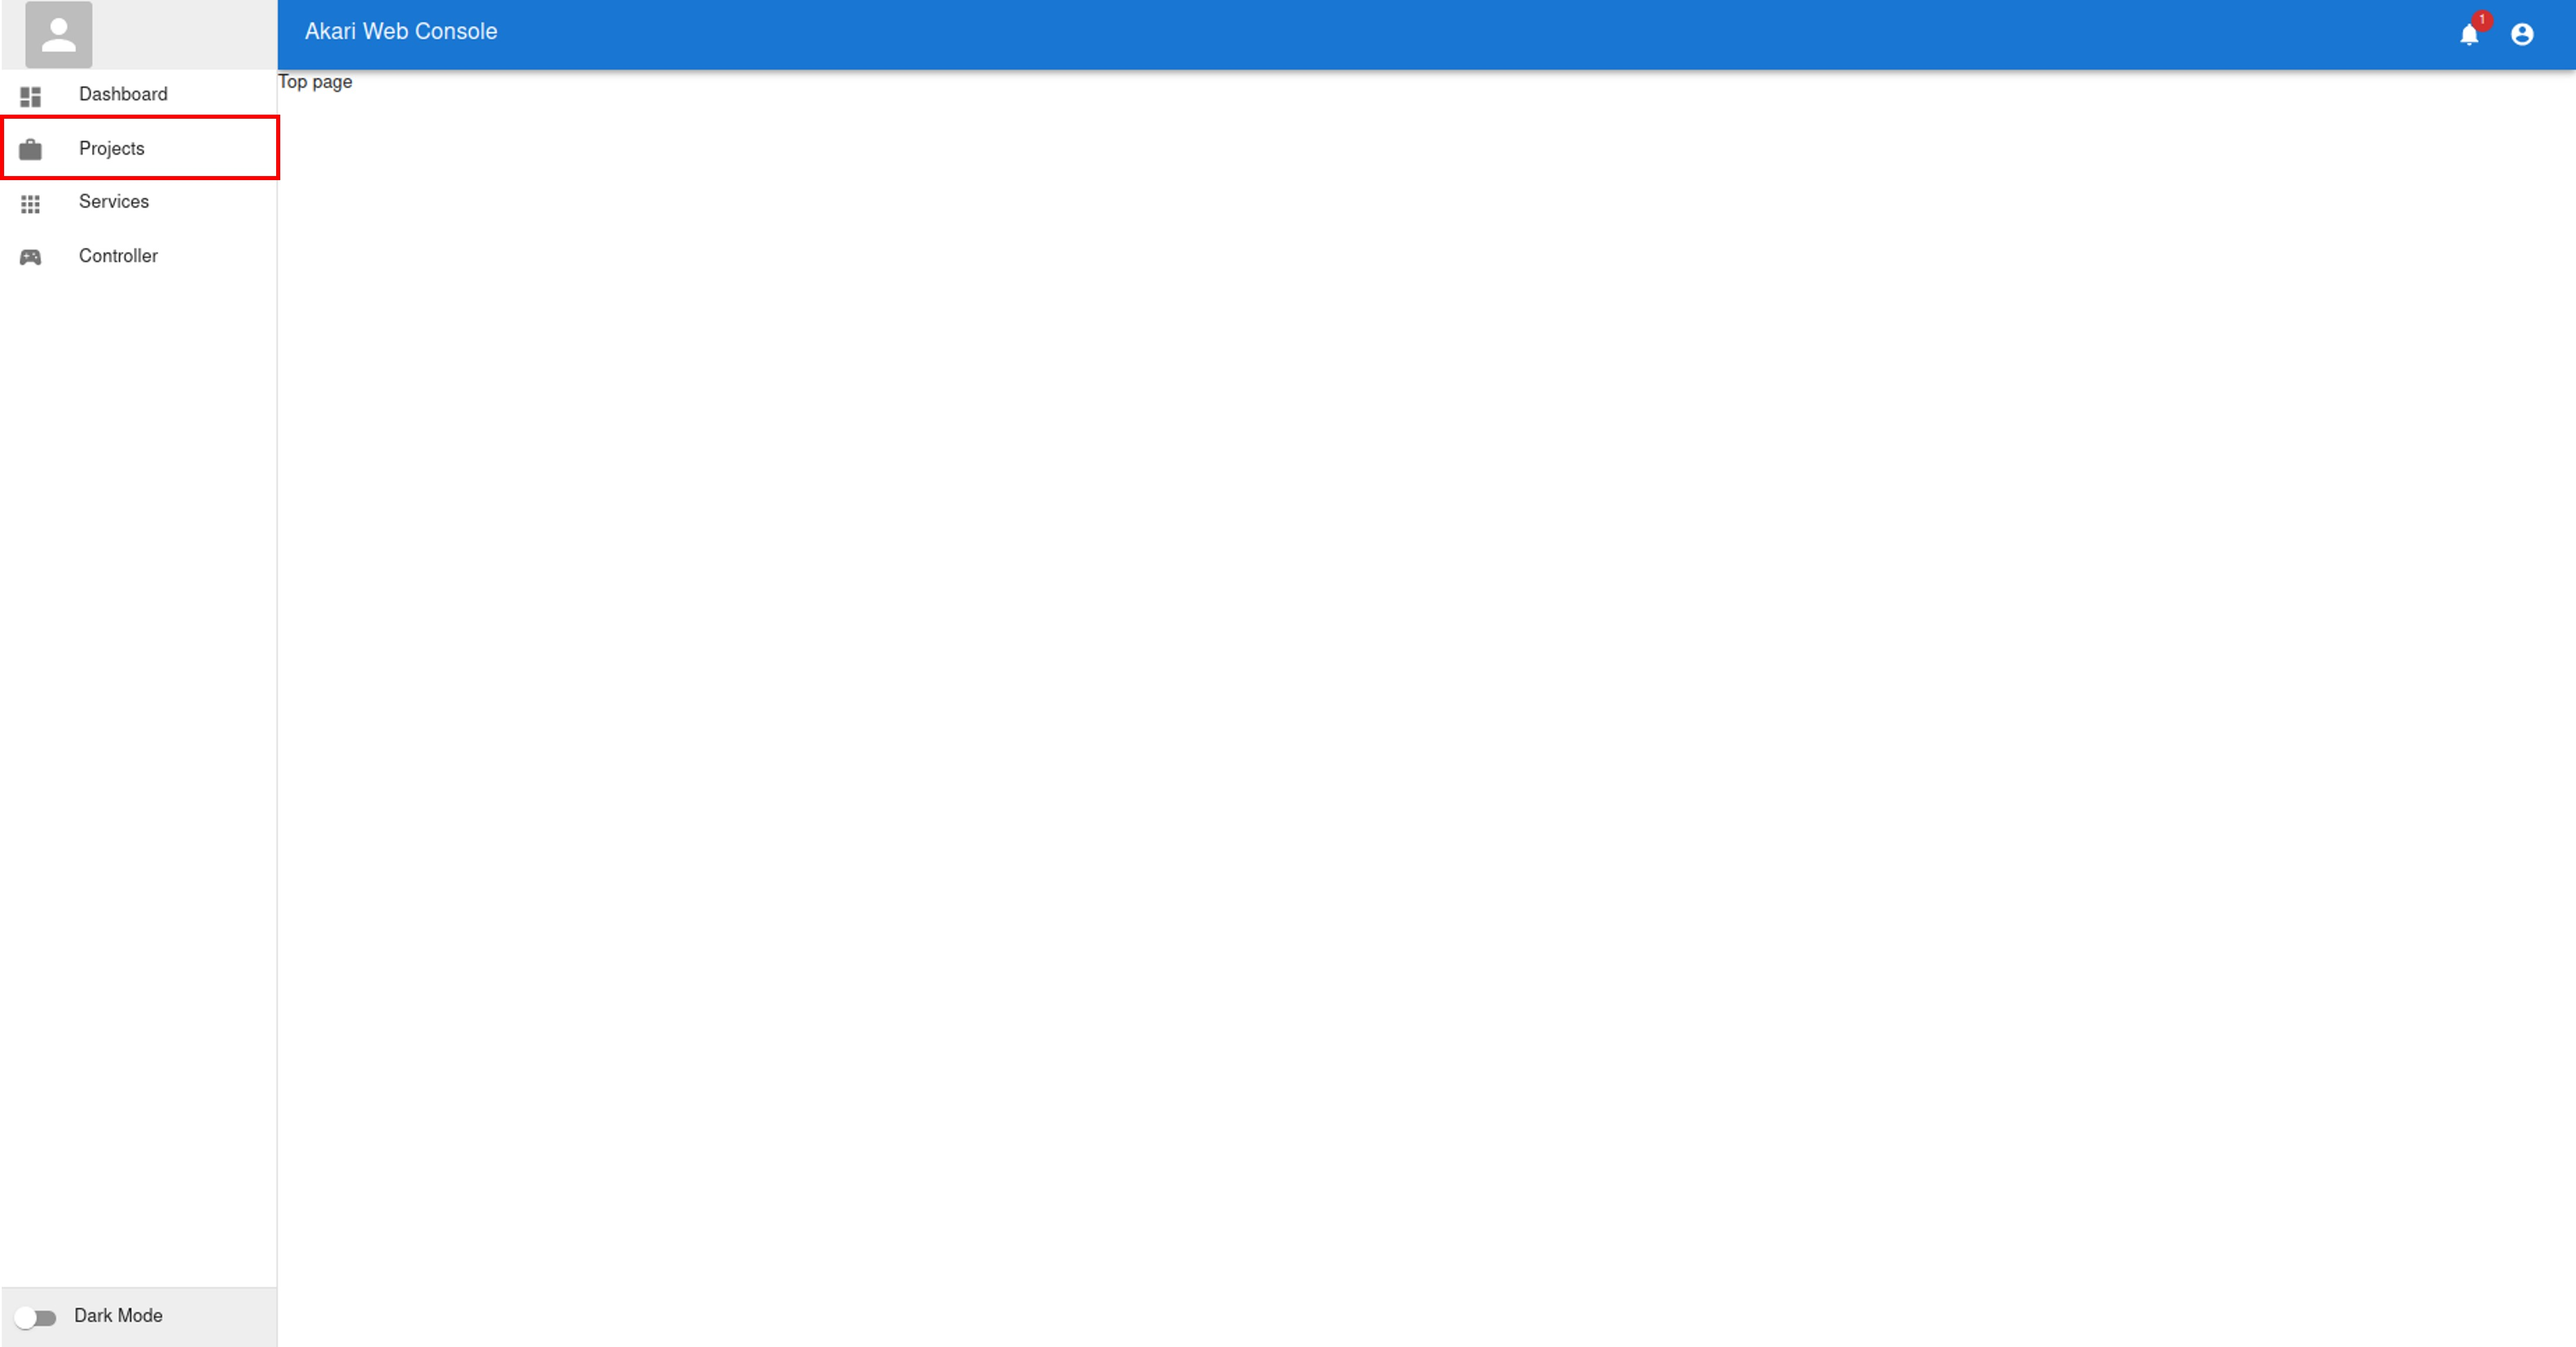
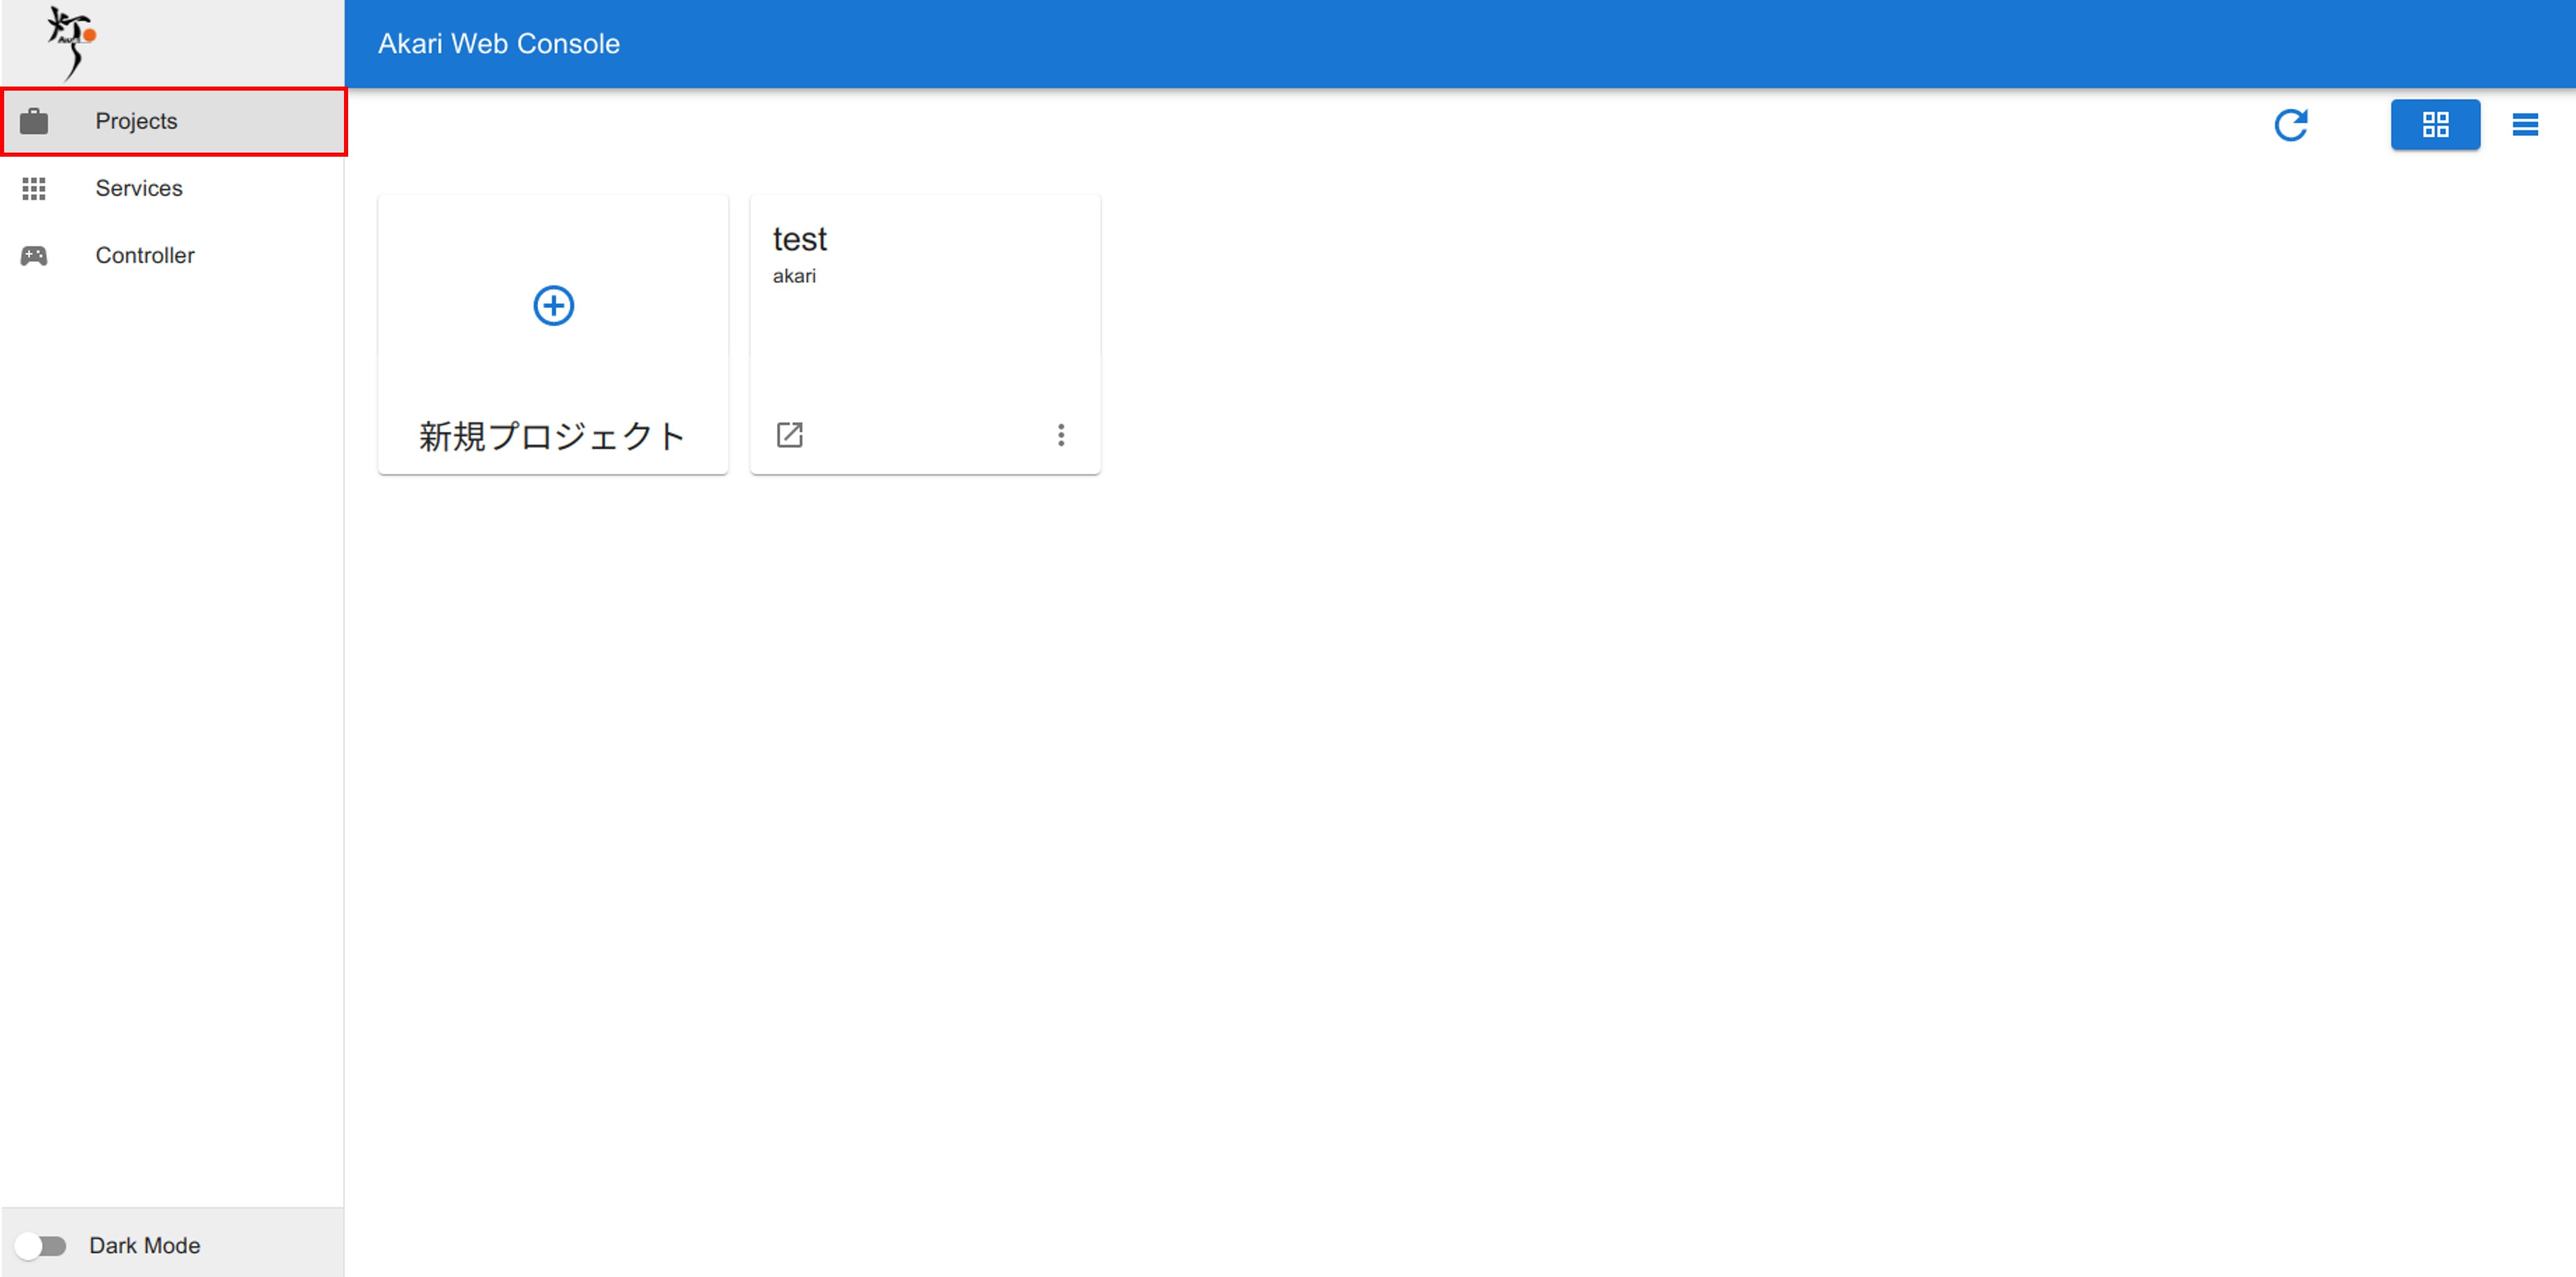
Fix/console layout update (#62)
* Update for new web console

* Update images

---------

diff --git a/source/tutorial_web/project.rst b/source/tutorial_web/project.rst
@@ -30,15 +30,19 @@ Projectsページの説明
 .. image:: ../images/tutorial_web/project_02.jpg
     :width: 800px
 
-**1. View切替ボタン**
+**1. 更新ボタン**
+
+  | プロジェクト一覧の更新ができます。
+
+**2. View切替ボタン**
 
   | ここでAKARIのプロジェクト一覧の表示形式をカード形式とリスト形式に切り替えできます。
 
-**2. 新規プロジェクトボタン**
+**3. 新規プロジェクトボタン**
 
   | 新しいプロジェクトを作成できます。
 
-**3. プロジェクト一覧**
+**4. プロジェクト一覧**
 
   | プロジェクトの一覧が表示されます。
   | プロジェクト名を選択すると、プロジェクトが開きます。
@@ -64,7 +68,7 @@ Projectsページの説明
   | 左のページリストから、Projectsを選択し、開きます。
 
 .. image:: ../images/tutorial_web/project_03.jpg
-    :width: 600px
+    :width: 800px
 
 2. 新規プロジェクトボタンを押す。
 
@@ -106,17 +110,58 @@ Projectsページの説明
 1. プロジェクト一覧からプロジェクト名を選択します。
 
 .. image:: ../images/tutorial_web/project_07.jpg
-    :width: 600px
+    :width: 800px
 
 2. プロジェクトページが開くので、右上の `OPEN WITH SERVICE` をクリックし、先程起動したサービスからプロジェクトの編集に使いたいものを選択します。
 
 .. image:: ../images/tutorial_web/project_08.jpg
-    :width: 600px
+    :width: 800px
 
 3. サービスを使って、プロジェクトのページがポップアップします。
 
   | このポップアップしたJupyterLabやVisual Studio Code上で、プログラムを書いて実行することでAKARIを動かすことができます。
-  | 実際にAKARIをこのサービス上で動かせるプロジェクトのサンプルが用意してあるので、次のページからはその使い方を見ていきましょう。
+
+
+===========================================================
+gitレポジトリからプロジェクトを作ってみよう
+===========================================================
+
+| 次に、git上に公開されているAKARIのプロジェクトを使ってプロジェクトを作成してみましょう。
+| 今回は、次ページ以降で使うakari_tutorialを例にして進めます。
+
+1. Projectsページを開く。
+
+  | webコンソールに戻って、左のページリストからProjectsを選択し、開きます。
+
+.. image:: ../images/tutorial_web/project_03.jpg
+    :width: 800px
+
+2. 新規プロジェクトボタンを押す。
+
+  | 新規プロジェクトボタンを押し、新しいプロジェクトを作成します。
+
+.. image:: ../images/tutorial_web/project_04.jpg
+    :width: 800px
+
+3. 「GITレポジトリから作成」を選択する。
+
+  | 「GITレポジトリから作成」を選択し、タブを切り替えます。
+
+.. image:: ../images/tutorial_web/project_09.jpg
+    :width: 800px
+
+4. プロジェクトを作成する。
+
+  | akarai_tutorialのcloneに必要な情報を入力し、作成ボタンを押します。
+  | git URL: https://github.com/AkariGroup/akari_tutorial.git
+  | gitブランチ名: main
+
+.. image:: ../images/tutorial_web/project_10.jpg
+    :width: 800px
+
+5. akari_tutorialというプロジェクトが作成されます。
+
+| 次に、今回作成したakari_tutorialを動かしてみましょう。
 
 :doc:`tutorial_project` へ進む
 

diff --git a/source/tutorial_web/tutorial_project.rst b/source/tutorial_web/tutorial_project.rst
@@ -5,31 +5,11 @@ AKARIチュートリアルを動かしてみよう
 | ここでは、AKARIの各機能を動かしながら学習できるプロジェクトである、AKARIチュートリアルの動かし方を説明します。
 
 ===========================================================
-AKARIチュートリアルのダウンロード
+AKARIチュートリアルを開く
 ===========================================================
 
-| まずはAKARIチュートリアルを自身のプロジェクト一覧に追加する必要があります。
-| 現時点では、AKARIチュートリアルはAKARI本体にログインして直接git cloneする必要があります。
-
-1. AKARIにディスプレイ、キーボード、マウスを接続し、AKARIのUbuntuにログインします。
-
-2. ターミナルを起動し、下記コマンドを実行する。
-
-.. code-block:: bash
-
-    cd ~/akari_projects
-    git clone git@github.com:AkariGroup/akari_tutorial.git
-
-3. 一度AKARIのサービスを再起動する。
-
-.. code-block:: bash
-
-    sudo systemctl restart akira.service
-
-**注: akariではなくakiraです。**
-
-| ここまで終わったら、:doc:`project` と同様そのままAKARI本体からでも、別PCからでもwebコンソールに接続して問題ありません。
-| :doc:`project` と同様の手順で、サービス一覧からJupyterLabかVisual Studio Codeのサービスをあらかじめ起動し、プロジェクト一覧からakari_tutorialを開きます。
+| :doc:`project` で作成したakari_tutorialを開きます。
+| サービス一覧からJupyterLabかVisual Studio Codeのサービスをあらかじめ起動し、プロジェクト一覧からakari_tutorialを開きます。
 
 
 ===========================================================

diff --git a/source/tutorial_web/service.rst b/source/tutorial_web/service.rst
@@ -24,7 +24,7 @@ Servicesページの説明
 ^^^^^^^^^^^^^^^^^^^^^^^^^^^^^^^^^^^^^^^^^^^^^^^^^^^^^^^^^^^
 
 .. image:: ../images/tutorial_web/service_01.jpg
-    :width: 500px
+    :width: 700px
 
 | サービスページの見方を説明します。
 
@@ -53,6 +53,8 @@ Servicesページの説明
   |   サービスの実行、停止ができます。
   | **・削除ボタン**
   |   サービスを削除できます。
+  | **・詳細ボタン**
+  |   サービスの状態やエラーメッセージを確認できます。
 
 3. システムサービス一覧
 

diff --git a/source/tutorial_web/access.rst b/source/tutorial_web/access.rst
@@ -57,8 +57,6 @@ webコンソールへアクセスする
 .. image:: ../images/tutorial_web/access_04.jpg
     :width: 600px
 
-| **・Dashboard**
-|   webコンソールのトップページです。現在工事中です。
 | **・Projects**
 |   webコンソール上で作成したプロジェクトが一覧表示されます。
 |   ここからアプリを新たに作成したり、作成中のアプリを再度開くことができます。
